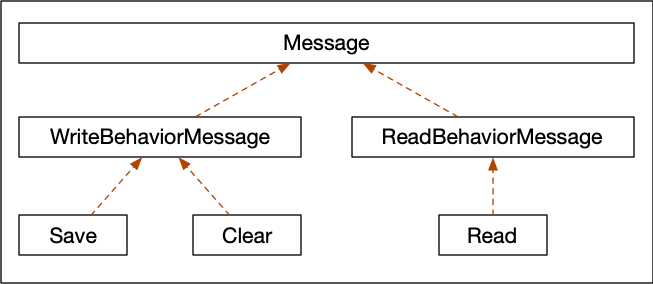
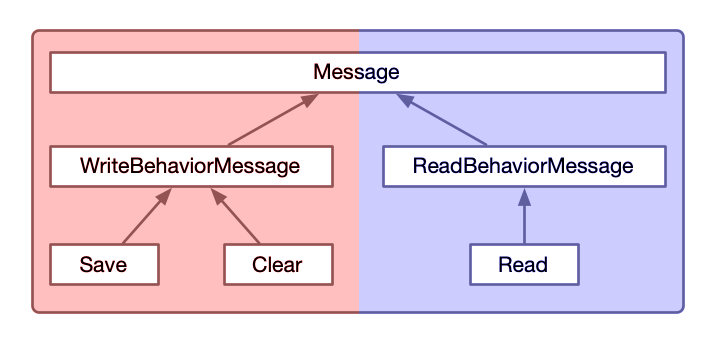
for blog - updated images, few renames
and restructured readme content

diff --git a/readme.md b/readme.md
@@ -23,35 +23,31 @@ return BAD REQUEST. Once you read the data, it will then again go into `writeonl
 
 To achieve this functionality, akka-typed actors are used.
 
-## Akka Actor Behaviors
+## Pattern
+
+The pattern requires us to come up with a list of states.
+Each state will have a corresponding akka `behavior`.
 
 ![image](images/Behaviors.png)
 
-Source: [Actors.scala](/src/main/scala/com/example/Actors.scala)
-
-## Akka Input Messages
+In addition the pattern requires that we create an ADT of messages for every
+state of the state machine. Since we are using typed-actors,
+we can then use `Behavior.receive[ADT]`.
+This allows us to ensure that we handle all messages which are
+applicable to state of machine. If any message is missed,
+a compiler warning is generated. In order to prevent `ask pattern`
+from timing out, when a message is not handled, we need to ensure
+that every message has a `replyTo` address. That's why we have 
+placed `replyTo` in the `Message` trait.
 
 ![image](images/Messages.png)
 
-Source: [Message.scala](/src/main/scala/com/example/Message.scala)
-
-## Akka Output Responses
+Finally, we need to create a similar set of ADTs for responses and
+make sure that `Unhandled` response extends from all other response
+ADTs because we need the ability to return `Unhandled` response
+from all states.
 
 ![image](images/Responses.png)
-
-Source: [Message.scala](/src/main/scala/com/example/Message.scala)
-
-## Pattern
-
-The pattern requires us to come up with a list of states. Each state will have a corresponding akka `behavior`.
-In order to prevent `ask pattern` from timing out, when a message is not handled, we need to ensure that every message
-has a `replyTo` address. That's why we have placed `replyTo` in the `Message` trait.
-
-The pattern requires that we create an ADT for every state of the state machine. Since we are using typed-actors, we can then use `Behavior.receive[ADT]`.
-This allows us to ensure that we handle all messages which are applicable to state of machine. If any message is missed, a compiler warning is generated.
-
-Finally, we need to create a similar set of ADTs for responses and make sure that `Unhandled` response extends from all other response ADS because we
-need the ability to return `Unhandled` response from all states
 
 ## Motivation
 
